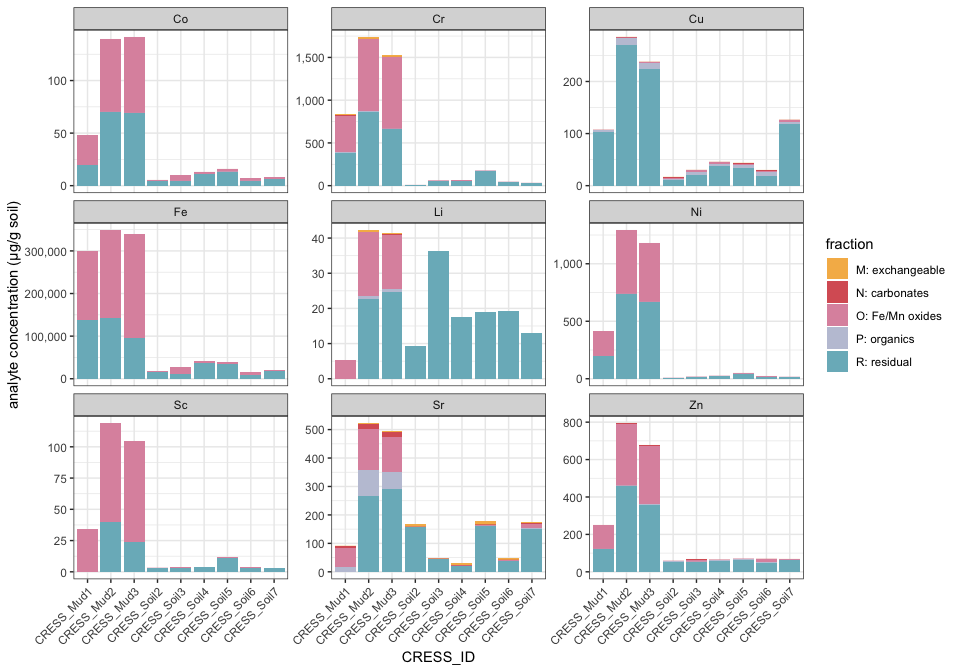
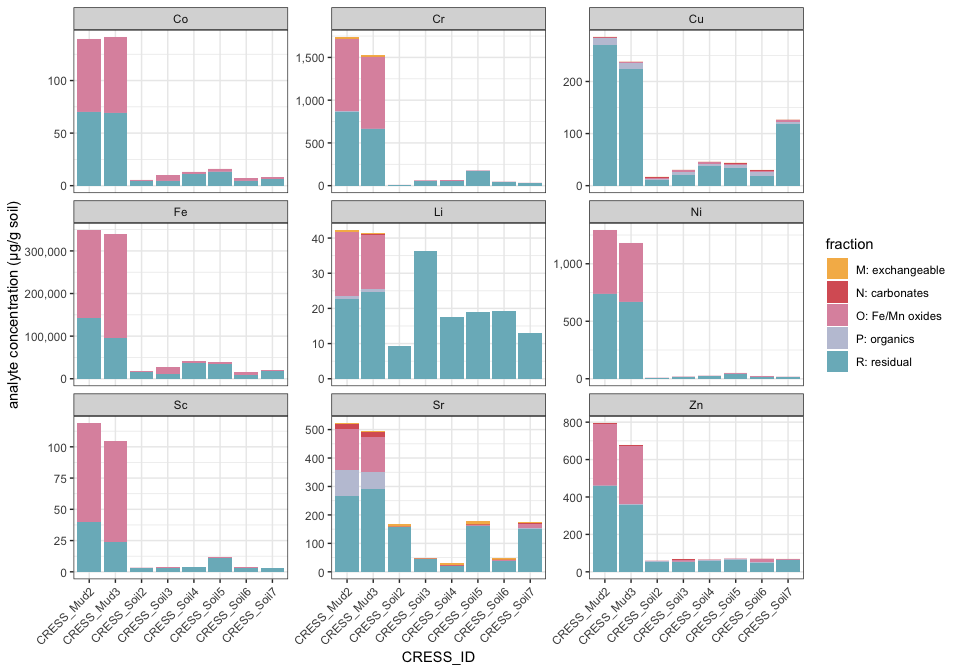
Remove Mud1. Plot XRF data. Add session info.

diff --git a/3-reports/cress_report_select_variables.md b/3-reports/cress_report_select_variables.md
@@ -52,7 +52,7 @@ Full list of analytes
 | Eu      | REEs            |     | Y   |
 | Gd      | REEs            |     | Y   |
 | Ho      | REEs            |     | Y   |
-| La      | REEs            |     | Y   |
+| La      | REEs            | Y   | Y   |
 | Lu      | REEs            |     | Y   |
 | Nd      | REEs            |     | Y   |
 | Pr      | REEs            |     | Y   |
@@ -99,11 +99,20 @@ extractable values (from the sequences) from the digest concentrations.
 
 ### DTPA extraction (single point extraction)
 
+This is the bioavailable fraction
+
 ![](cress_report_select_variables_files/figure-gfm/dtpa-1.png)<!-- -->
+
+- Sc and Cr were not measured for soil extracts (because the necessary
+  standard was not available)
+- Li was below detection for all
 
 ### Sequential extraction (soil sequence)
 
 ![](cress_report_select_variables_files/figure-gfm/soil_sequence-1.png)<!-- -->
+
+- Sc and Cr were not measured for soil extracts (because the necessary
+  standard was not available)
 
 ### Sequential extraction (AMD sequence)
 
@@ -137,4 +146,57 @@ extractable values (from the sequences) from the digest concentrations.
 
 ![](cress_report_select_variables_files/figure-gfm/unnamed-chunk-3-1.png)<!-- -->
 
+## Comparing XRF data with digests
+
+![](cress_report_select_variables_files/figure-gfm/unnamed-chunk-4-1.png)<!-- -->
+
 ------------------------------------------------------------------------
+
+------------------------------------------------------------------------
+
+## Session Info
+
+<details>
+<summary>
+Session Info
+</summary>
+
+Date run: 2026-03-20
+
+    ## R version 4.5.0 (2025-04-11)
+    ## Platform: aarch64-apple-darwin20
+    ## Running under: macOS 26.3.2
+    ## 
+    ## Matrix products: default
+    ## BLAS:   /Library/Frameworks/R.framework/Versions/4.5-arm64/Resources/lib/libRblas.0.dylib 
+    ## LAPACK: /Library/Frameworks/R.framework/Versions/4.5-arm64/Resources/lib/libRlapack.dylib;  LAPACK version 3.12.1
+    ## 
+    ## locale:
+    ## [1] en_US.UTF-8/en_US.UTF-8/en_US.UTF-8/C/en_US.UTF-8/en_US.UTF-8
+    ## 
+    ## time zone: America/Los_Angeles
+    ## tzcode source: internal
+    ## 
+    ## attached base packages:
+    ## [1] stats     graphics  grDevices utils     datasets  methods   base     
+    ## 
+    ## other attached packages:
+    ##  [1] whistledown_0.1.0   googlesheets4_1.1.1 lubridate_1.9.4    
+    ##  [4] forcats_1.0.0       stringr_1.5.1       dplyr_1.2.0        
+    ##  [7] purrr_1.0.4         readr_2.1.5         tidyr_1.3.2        
+    ## [10] tibble_3.3.1        ggplot2_4.0.2       tidyverse_2.0.0    
+    ## 
+    ## loaded via a namespace (and not attached):
+    ##  [1] rappdirs_0.3.3     generics_0.1.3     stringi_1.8.7      hms_1.1.3         
+    ##  [5] digest_0.6.37      magrittr_2.0.3     evaluate_1.0.3     grid_4.5.0        
+    ##  [9] timechange_0.3.0   RColorBrewer_1.1-3 fastmap_1.2.0      cellranger_1.1.0  
+    ## [13] jsonlite_2.0.0     googledrive_2.1.1  httr_1.4.7         scales_1.4.0      
+    ## [17] cli_3.6.5          rlang_1.1.7        withr_3.0.2        yaml_2.3.10       
+    ## [21] tools_4.5.0        tzdb_0.5.0         gargle_1.5.2       curl_6.2.2        
+    ## [25] vctrs_0.7.1        R6_2.6.1           lifecycle_1.0.5    fs_1.6.6          
+    ## [29] pkgconfig_2.0.3    pillar_1.10.2      gtable_0.3.6       glue_1.8.0        
+    ## [33] xfun_0.53          tidyselect_1.2.1   rstudioapi_0.17.1  knitr_1.50        
+    ## [37] farver_2.1.2       htmltools_0.5.8.1  labeling_0.4.3     rmarkdown_2.29    
+    ## [41] compiler_4.5.0     S7_0.2.0           askpass_1.2.1      openssl_2.3.2
+
+</details>
